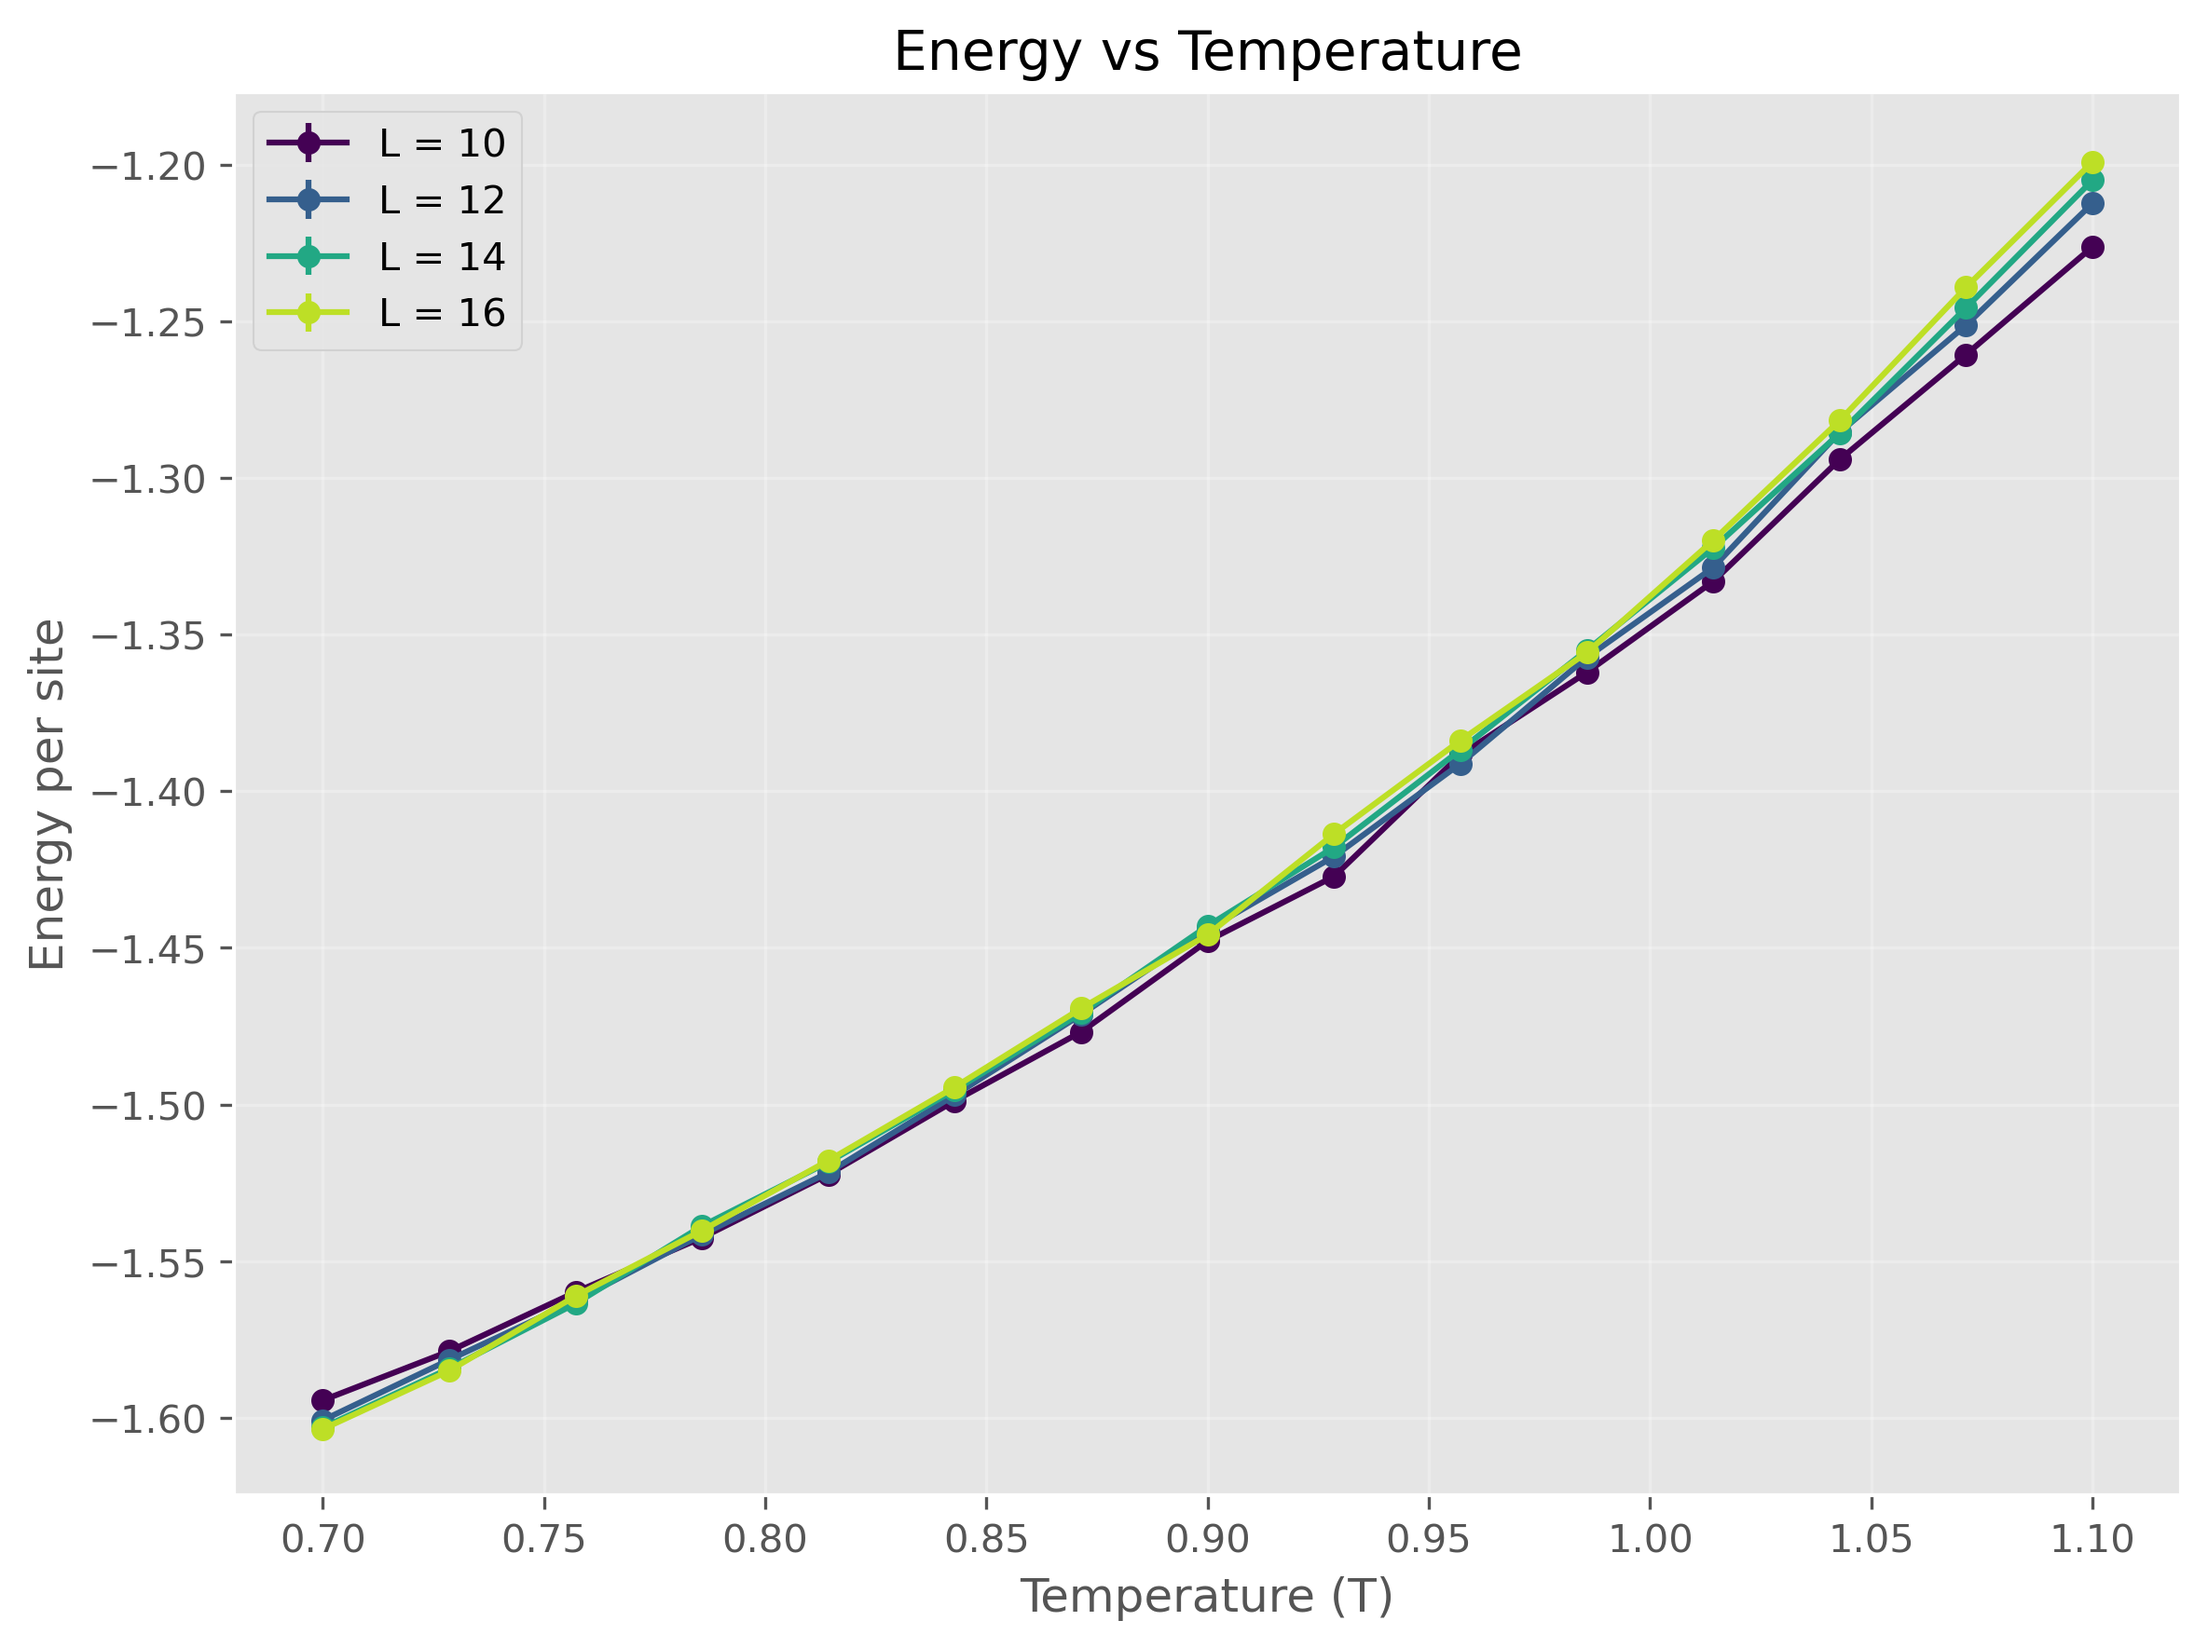
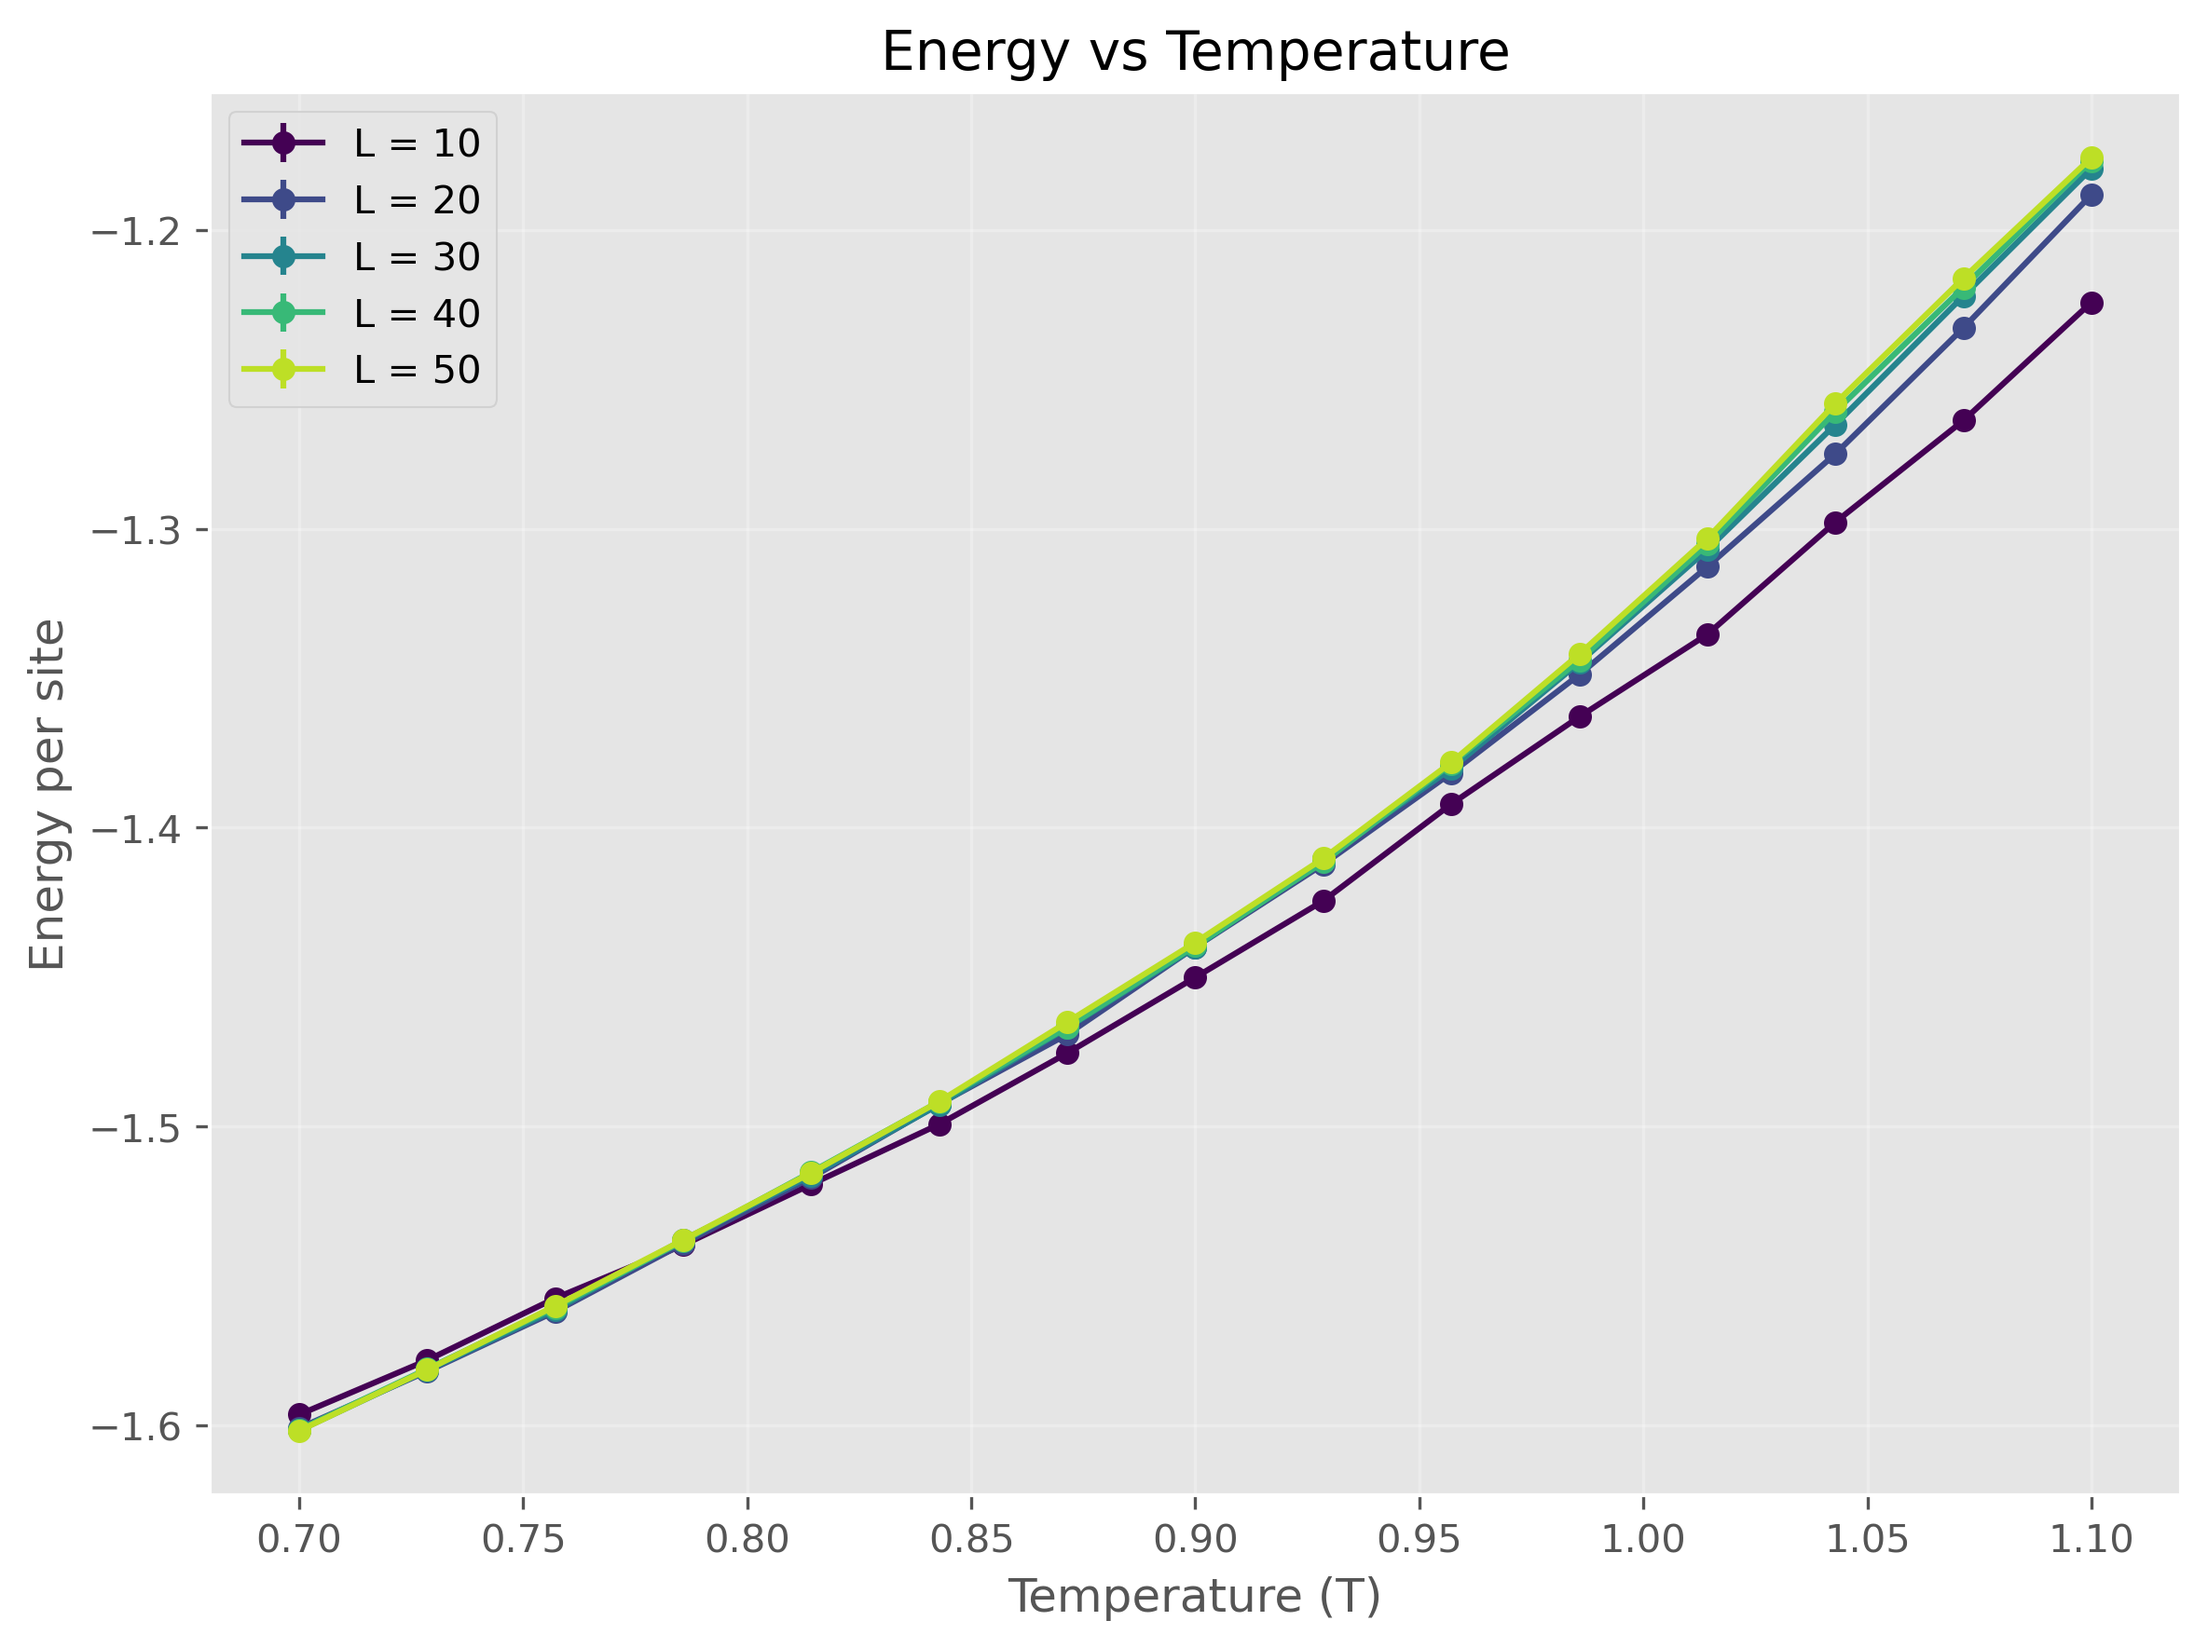
simulate and visualize

diff --git a/Ben-Francesco-parallel-JIT/simulate.py b/Ben-Francesco-parallel-JIT/simulate.py
@@ -630,7 +630,7 @@ def main():
     parser.add_argument("--num-points", type=int, default=15)
     parser.add_argument("--sweeps", type=int, default=2000)
     parser.add_argument("--thermalize", type=int, default=1000)
-    parser.add_argument("--lattice-sizes", type=int, nargs="+", default=[10,12,14,16])
+    parser.add_argument("--lattice-sizes", type=int, nargs="+", default=[10,20,30,40,50])
     parser.add_argument("--j", type=float, default=1.0)
     parser.add_argument("--seed", type=int, default=None)
     parser.add_argument("--algorithm", type=str, choices=['metropolis', 'wolff'], default='wolff')
